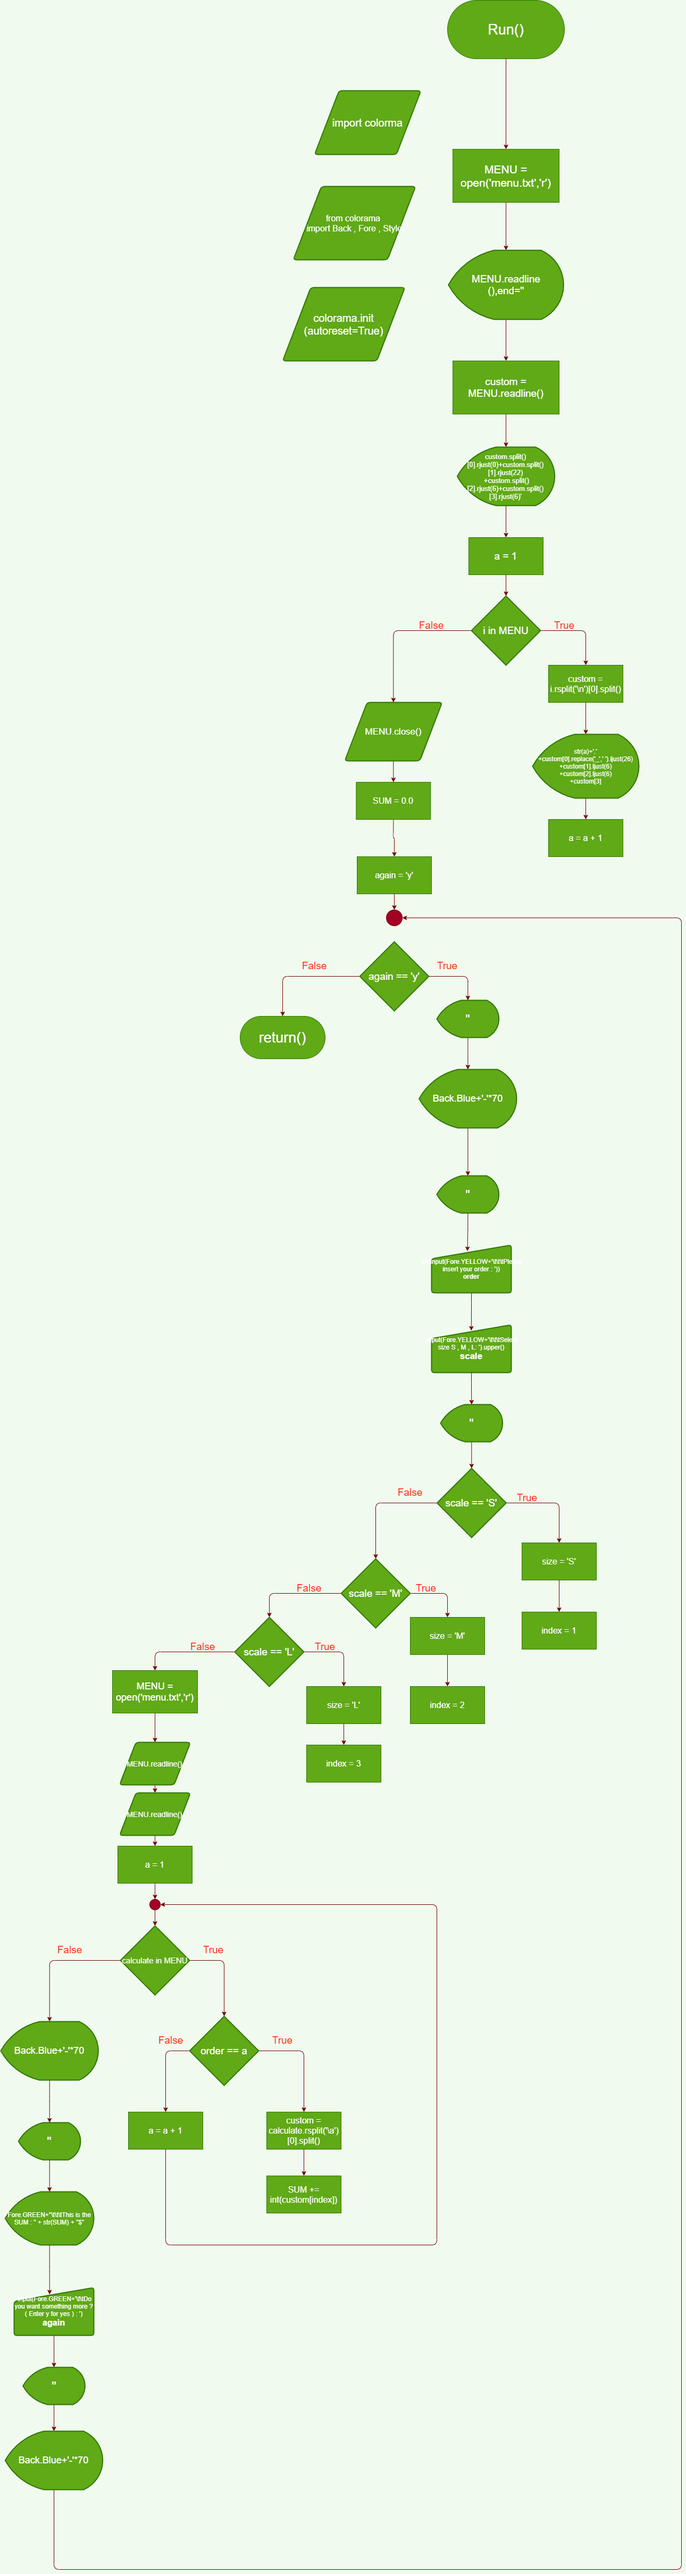
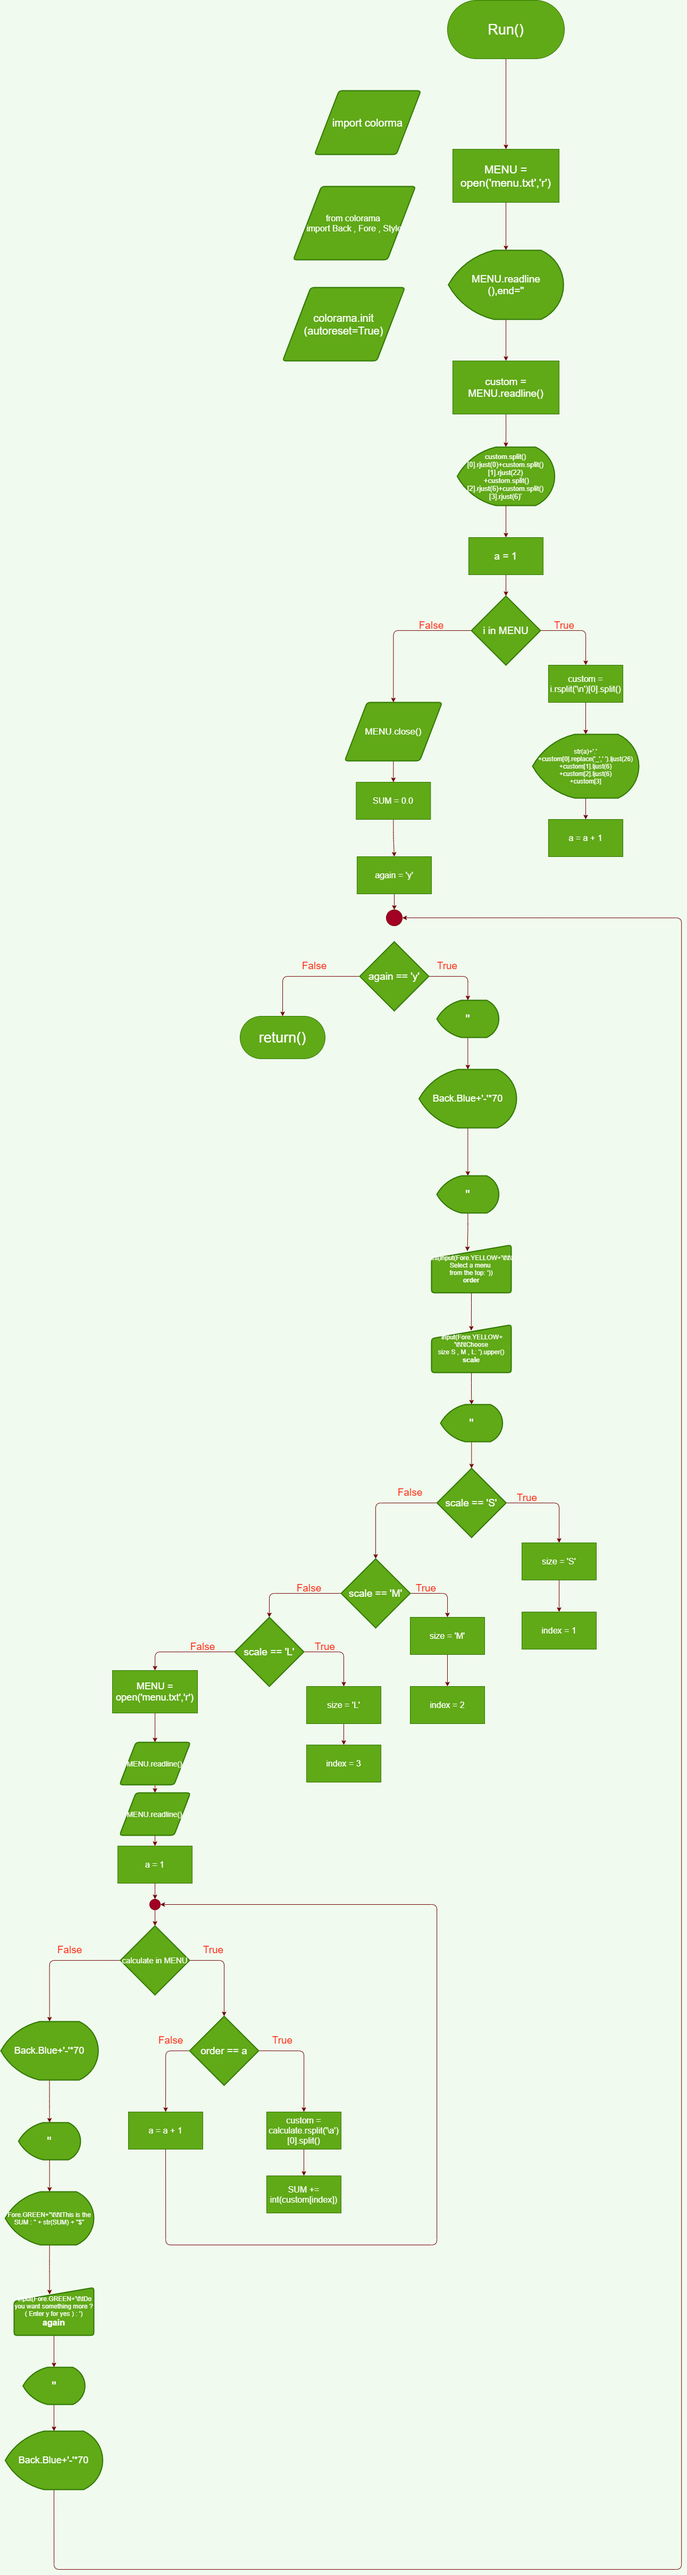
up

diff --git a/Homework/coffee.py b/Homework/coffee.py
@@ -34,8 +34,8 @@ def Run():
 
             print('')
 
-            order = int(input(Fore.YELLOW+'\t\t\tPlease insert your order : '))
-            scale = input(Fore.YELLOW+'\t\t\tSelect size S , M , L: ').upper()
+            order = int(input(Fore.YELLOW+'\t\t\tSelect a menu from the top. : '))
+            scale = input(Fore.YELLOW+'\t\t\tChoose size S , M , L : ').upper()
             
             print('')
 
